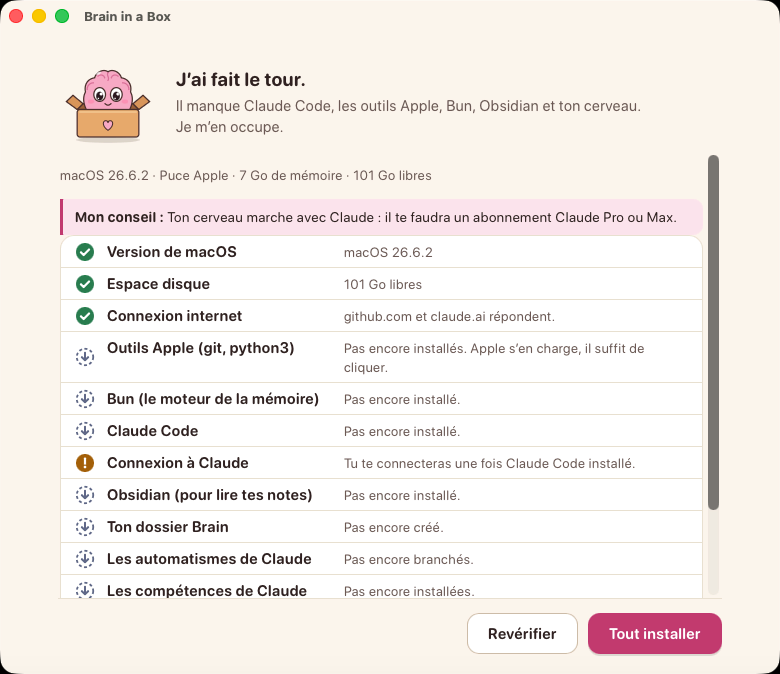
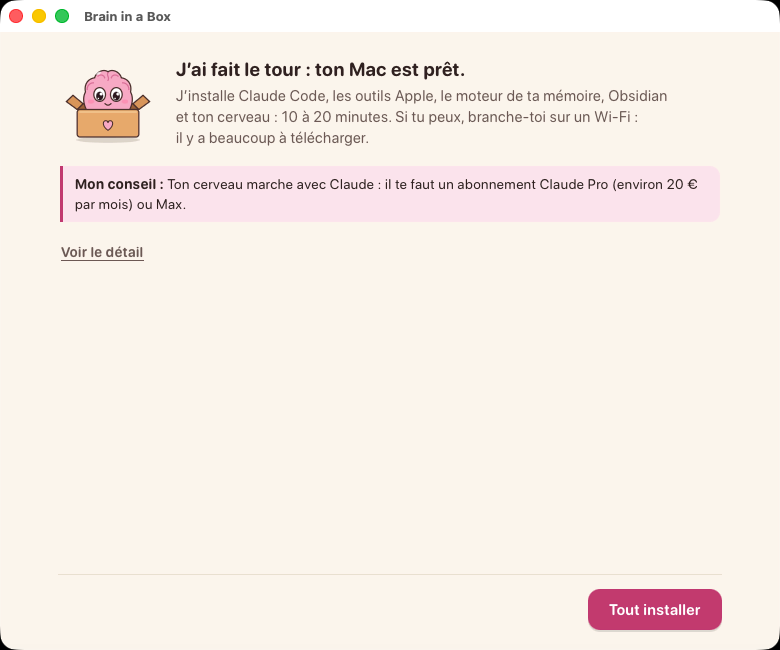
The site's captures from the new screens, as the night films them; the update's path checked on master's preview
- site/img: redone with captures.sh from the windows of a terrain run of master (the published
  preview 138) and, for the end once Claude is connected and SmartScreen naming the site's file,
  from the update's path (app-mise-a-jour): the folded diagnosis, the end « Guide-moi dans un
  logiciel », the installer with Bibo. Their alt says what each one shows (SmartScreen and
  Gatekeeper in English on the VMs), width and height their new size. The guide's two stay (the
  night still pastes its captures), Voyage's too (the path no longer opens it).
- captures.sh names a screen, not its number (the first capture of it): the count before a
  screen changes from night to night. Two more folders, the update's captures (README).
- test_terrain: each site image is its crop, inside the robot's screen, with an alt that says
  what it shows, none left out; the update on master, the newest preview over itself, the
  read-only token taken out of the app's environment.
- macOS's update says what the robot does: it replaces the app in Applications as the Finder's
  « Remplacer » would, it does not drag.

diff --git a/site/index.html b/site/index.html
@@ -348,7 +348,7 @@
             <p>Un message bleu s’affiche (Windows protected your PC). Clique sur <strong>Informations complémentaires</strong> (More info).</p>
           </div>
           <figure class="shot">
-            <a class="zoom" href="img/win-smartscreen-1.webp"><img src="img/win-smartscreen-1.webp" width="532" height="150" loading="lazy" decoding="async" alt="Le message bleu de Windows : Windows a protégé votre ordinateur, avec le lien Informations complémentaires sous le texte."></a>
+            <a class="zoom" href="img/win-smartscreen-1.webp"><img src="img/win-smartscreen-1.webp" width="532" height="150" loading="lazy" decoding="async" alt="Le message bleu de Windows, ici en anglais : Windows protected your PC (Windows a protégé votre ordinateur), avec le lien More info (Informations complémentaires) sous le texte."></a>
             <figcaption>Le haut du message, ici sur un Windows en anglais&nbsp;: «&nbsp;More info&nbsp;».</figcaption>
           </figure>
         </li>
@@ -358,7 +358,7 @@
             <p>Le nom du fichier apparaît, avec «&nbsp;Éditeur inconnu&nbsp;» (Unknown publisher). Clique sur <strong>Exécuter quand même</strong> (Run anyway).</p>
           </div>
           <figure class="shot">
-            <a class="zoom" href="img/win-smartscreen-2.webp"><img class="img-narrow" src="img/win-smartscreen-2.webp" width="532" height="498" loading="lazy" decoding="async" alt="Le même message, avec le nom du fichier Brain in a Box et deux boutons : Exécuter quand même, et Ne pas exécuter."></a>
+            <a class="zoom" href="img/win-smartscreen-2.webp"><img class="img-narrow" src="img/win-smartscreen-2.webp" width="532" height="498" loading="lazy" decoding="async" alt="Le même message après More info : le fichier Brain-in-a-Box_windows-x64-setup.exe, l’éditeur inconnu (Unknown publisher), et deux boutons : Run anyway (Exécuter quand même) et Don’t run (Ne pas exécuter)."></a>
             <figcaption>«&nbsp;Run anyway&nbsp;» sur un Windows en anglais.</figcaption>
           </figure>
         </li>
@@ -370,10 +370,10 @@
           </div>
           <div class="shot-pair">
             <figure class="shot">
-              <a class="zoom" href="img/win-installeur.webp"><img src="img/win-installeur.webp" width="497" height="386" loading="lazy" decoding="async" alt="Premier écran de l'installeur : Bibo s’installe sur ton PC, Clique sur Suivant. Bouton Suivant."></a>
+              <a class="zoom" href="img/win-installeur.webp"><img src="img/win-installeur.webp" width="497" height="386" loading="lazy" decoding="async" alt="Premier écran de l’installeur, avec Bibo dans sa boîte : Bibo s’installe sur ton PC, pour toi seul, en quelques secondes. Clique sur Suivant. Boutons Suivant et Annuler."></a>
             </figure>
             <figure class="shot">
-              <a class="zoom" href="img/win-installeur-fin.webp"><img src="img/win-installeur-fin.webp" width="497" height="386" loading="lazy" decoding="async" alt="Dernier écran : Bibo est installé ! Cases Lancer Bibo maintenant et Mettre l’icône Brain in a Box sur le bureau cochées, bouton Fermer."></a>
+              <a class="zoom" href="img/win-installeur-fin.webp"><img src="img/win-installeur-fin.webp" width="497" height="386" loading="lazy" decoding="async" alt="Dernier écran de l’installeur : Bibo est installé ! Cases Lancer Bibo maintenant et Mettre l’icône « Brain in a Box » sur le bureau cochées, bouton Fermer."></a>
             </figure>
           </div>
         </li>
@@ -400,7 +400,7 @@
             <p>Ouvre le fichier téléchargé (dans Téléchargements). Une fenêtre s’ouvre&nbsp;: glisse <strong>Brain in a Box</strong> sur le dossier <strong>Applications</strong>, en suivant la flèche.</p>
           </div>
           <figure class="shot">
-            <a class="zoom" href="img/mac-dmg.webp"><img class="img-narrow" src="img/mac-dmg.webp" width="660" height="400" loading="lazy" decoding="async" alt="La fenêtre du fichier téléchargé : « Glisse Bibo dans Applications », l’icône Brain in a Box à gauche, une flèche, le dossier Applications à droite."></a>
+            <a class="zoom" href="img/mac-dmg.webp"><img class="img-narrow" src="img/mac-dmg.webp" width="660" height="400" loading="lazy" decoding="async" alt="La fenêtre du fichier téléchargé : « Glisse Bibo dans Applications », l’icône Brain in a Box à gauche, une flèche, le dossier Applications à droite, et dessous « Puis ouvre Brain in a Box depuis le dossier Applications »."></a>
           </figure>
         </li>
         <li>
@@ -409,7 +409,7 @@
             <p>Ouvre Brain in a Box depuis Applications. macOS l’arrête avec un message&nbsp;: Apple n’a pas pu vérifier l’app. Clique sur <strong>Terminé</strong> (Done&nbsp;; <strong>Annuler</strong> sur macOS 13 et 14), surtout pas sur «&nbsp;Placer dans la corbeille&nbsp;» (Move to Trash).</p>
           </div>
           <figure class="shot">
-            <a class="zoom" href="img/mac-bloquee.webp"><img class="img-dialog" src="img/mac-bloquee.webp" width="260" height="284" loading="lazy" decoding="async" alt="Le message de macOS : Apple n'a pas pu vérifier Brain in a Box. Deux boutons : Placer dans la corbeille, et Terminé."></a>
+            <a class="zoom" href="img/mac-bloquee.webp"><img class="img-dialog" src="img/mac-bloquee.webp" width="260" height="284" loading="lazy" decoding="async" alt="Le message de macOS, ici en anglais : « Brain in a Box » Not Opened, Apple n’a pas pu vérifier Brain in a Box. Deux boutons : Move to Trash (Placer dans la corbeille) et Done (Terminé)."></a>
             <figcaption>Ici sur un Mac en anglais&nbsp;: «&nbsp;Done&nbsp;» veut dire «&nbsp;Terminé&nbsp;».</figcaption>
           </figure>
         </li>
@@ -485,7 +485,7 @@
           <p>Bibo annonce le programme&nbsp;: il regarde ce qui manque, installe Claude, te fait connecter ton compte, puis installe le reste. Clique sur <strong>Vérifier mon Mac</strong> (ou «&nbsp;Vérifier mon PC&nbsp;»).</p>
         </div>
         <figure class="shot">
-          <a class="zoom" href="img/bibo-1-bienvenue.webp"><img src="img/bibo-1-bienvenue.webp" width="780" height="674" loading="lazy" decoding="async" alt="L'écran d'accueil : Bibo dit « Salut, moi c'est Bibo ! », trois étapes numérotées, et le bouton Vérifier mon Mac."></a>
+          <a class="zoom" href="img/bibo-1-bienvenue.webp"><img src="img/bibo-1-bienvenue.webp" width="780" height="650" loading="lazy" decoding="async" alt="L’écran d’accueil : Bibo dit « Salut, moi c’est Bibo ! », trois étapes numérotées, le lien Je n’ai pas encore Claude Pro, le numéro de la préversion et le bouton Vérifier mon Mac."></a>
         </figure>
       </li>
       <li>
@@ -503,7 +503,7 @@
           <p>Clique sur <strong>Tout installer</strong>.</p>
         </div>
         <figure class="shot">
-          <a class="zoom" href="img/bibo-2-diagnostic.webp"><img src="img/bibo-2-diagnostic.webp" width="780" height="674" loading="lazy" decoding="async" alt="Le diagnostic : la ligne Mon conseil (ton cerveau marche avec Claude, il te faudra un abonnement Claude Pro ou Max), puis une liste de vérifications (version de macOS, espace disque, internet en vert ; outils Apple, Bun, Claude Code, Obsidian et le dossier Brain à installer) et le bouton Tout installer."></a>
+          <a class="zoom" href="img/bibo-2-diagnostic.webp"><img src="img/bibo-2-diagnostic.webp" width="780" height="650" loading="lazy" decoding="async" alt="Le diagnostic, replié : « J’ai fait le tour : ton Mac est prêt. », ce que Bibo va installer en 10 à 20 minutes, la ligne Mon conseil (un abonnement Claude Pro, environ 20&nbsp;€ par mois, ou Max), le lien Voir le détail et le bouton Tout installer."></a>
         </figure>
       </li>
       <li>
@@ -525,7 +525,7 @@
           <p>Connecté, Claude pourra aider Bibo si une étape coince. Tu peux aussi choisir <strong>Plus tard</strong>.</p>
         </div>
         <figure class="shot">
-          <a class="zoom" href="img/bibo-4-connexion.webp"><img src="img/bibo-4-connexion.webp" width="780" height="674" loading="lazy" decoding="async" alt="Pendant l'installation, Bibo propose de connecter le compte Claude : trois étapes, les boutons Plus tard et Connecter mon compte Claude."></a>
+          <a class="zoom" href="img/bibo-4-connexion.webp"><img src="img/bibo-4-connexion.webp" width="780" height="650" loading="lazy" decoding="async" alt="Pendant l’installation, Bibo propose de connecter ton compte Claude : les étapes encore en attente, trois consignes (ton navigateur s’ouvre sur claude.ai, une fenêtre de commandes s’ouvre aussi, reviens ici), et les boutons Plus tard et Connecter mon compte Claude."></a>
         </figure>
       </li>
       <li>
@@ -540,7 +540,7 @@
           </ul>
         </div>
         <figure class="shot">
-          <a class="zoom" href="img/bibo-6-cerveau.webp"><img src="img/bibo-6-cerveau.webp" width="780" height="580" loading="lazy" decoding="async" alt="L'installation sur Mac : Claude Code, Outils Apple, Bun et Obsidian sont faits, Ton cerveau est en cours, la barre de progression est presque pleine."></a>
+          <a class="zoom" href="img/bibo-6-cerveau.webp"><img src="img/bibo-6-cerveau.webp" width="780" height="650" loading="lazy" decoding="async" alt="L’installation sur Mac : Claude Code, Outils Apple, Bun et Obsidian sont faits, Ton cerveau est en cours. Bibo prévient que macOS peut demander l’accès au dossier Documents, et qu’il faut garder l’ordinateur branché et ouvert."></a>
         </figure>
       </li>
     </ol>
@@ -550,15 +550,15 @@
       <p class="note systems-note">Clique sur une capture pour la voir en grand.</p>
       <div class="systems-grid">
         <figure class="shot">
-          <a class="zoom" href="img/bibo-5-outils-apple.webp"><img src="img/bibo-5-outils-apple.webp" width="780" height="580" loading="lazy" decoding="async" alt="Sur Mac, la fenêtre d'Apple installe les outils de base par-dessus la fenêtre de Bibo, avec une barre de progression."></a>
+          <a class="zoom" href="img/bibo-5-outils-apple.webp"><img src="img/bibo-5-outils-apple.webp" width="780" height="650" loading="lazy" decoding="async" alt="Sur Mac, la fenêtre d’Apple installe les outils de base par-dessus celle de Bibo, avec sa barre de progression ; Bibo dit de cliquer sur Installer, et l’étape Outils Apple est en cours."></a>
           <figcaption><strong>Mac</strong> · 5 étapes&nbsp;: Claude Code, Outils Apple, Bun, Obsidian, Ton cerveau. La fenêtre d’Apple travaille quelques minutes.</figcaption>
         </figure>
         <figure class="shot">
-          <a class="zoom" href="img/bibo-windows.webp"><img src="img/bibo-windows.webp" width="780" height="400" loading="lazy" decoding="async" alt="Sur Windows, deux étapes : Claude Code est fait, Ton cerveau est en cours."></a>
+          <a class="zoom" href="img/bibo-windows.webp"><img src="img/bibo-windows.webp" width="780" height="430" loading="lazy" decoding="async" alt="Sur Windows, deux étapes : Claude Code est fait, Ton cerveau est en cours. Bibo prévient que Windows peut demander une autorisation pour installer Git ou Python, et qu’il faut garder l’ordinateur branché."></a>
           <figcaption><strong>Windows</strong> · 2 étapes&nbsp;: Claude Code, puis Ton cerveau, qui amène Python, Git, Bun et Obsidian.</figcaption>
         </figure>
         <figure class="shot">
-          <a class="zoom" href="img/bibo-linux.webp"><img src="img/bibo-linux.webp" width="780" height="580" loading="lazy" decoding="async" alt="Sur Linux, cinq étapes : Outils de base, Claude Code et Bun sont faits, Obsidian est en cours ; Bibo prévient que l'ordinateur va demander le mot de passe."></a>
+          <a class="zoom" href="img/bibo-linux.webp"><img src="img/bibo-linux.webp" width="780" height="620" loading="lazy" decoding="async" alt="Sur Linux, cinq étapes : Outils de base, Claude Code et Bun sont faits, Obsidian est en cours ; Bibo prévient que l’ordinateur va demander le mot de passe."></a>
           <figcaption><strong>Linux</strong> · Outils de base (s’il en manque), Claude Code, Bun, Obsidian, Ton cerveau.</figcaption>
         </figure>
       </div>
@@ -572,7 +572,7 @@
           <p>Si ton compte n’est pas encore connecté, Bibo te le redemande à la fin. Même chose&nbsp;: une fenêtre s’ouvre, tu te connectes dans ton navigateur, et Bibo voit tout seul quand c’est bon.</p>
         </div>
         <figure class="shot">
-          <a class="zoom" href="img/bibo-7-compte.webp"><img src="img/bibo-7-compte.webp" width="780" height="674" loading="lazy" decoding="async" alt="L'écran Dernière étape : ton compte Claude, avec trois étapes et les boutons Plus tard et Connecter mon compte Claude."></a>
+          <a class="zoom" href="img/bibo-7-compte.webp"><img src="img/bibo-7-compte.webp" width="780" height="650" loading="lazy" decoding="async" alt="L’écran Dernière étape : ton compte Claude, trois consignes (ton navigateur, la fenêtre de commandes, revenir ici) et les boutons Plus tard et Connecter mon compte Claude."></a>
         </figure>
       </li>
       <li>
@@ -583,7 +583,7 @@
           <p><a href="#guide">Le guide</a> · <a href="#apres">Et après&nbsp;?</a></p>
         </div>
         <figure class="shot">
-          <a class="zoom" href="img/bibo-8-pret.webp"><img src="img/bibo-8-pret.webp" width="780" height="674" loading="lazy" decoding="async" alt="L'écran final : Bibo content dit « Ton second cerveau est prêt ! », avec les boutons Activer la recherche par le sens, Importer ma mémoire, Essayer le guide, Ouvrir mon cerveau dans Obsidian et Personnaliser mon cerveau (15 min)."></a>
+          <a class="zoom" href="img/bibo-8-pret.webp"><img src="img/bibo-8-pret.webp" width="780" height="650" loading="lazy" decoding="async" alt="L’écran final, Claude connecté : Bibo content dit « Ton second cerveau est prêt ! », les liens Importer ma mémoire, Voir mes notes et Recherche par le sens, et deux boutons : Présente-toi à Claude (15 min) et, en rose, Guide-moi dans un logiciel."></a>
         </figure>
       </li>
       <li>
@@ -594,7 +594,7 @@
           <p><a href="#memoire">Les deux façons, pas à pas</a></p>
         </div>
         <figure class="shot">
-          <a class="zoom" href="img/bibo-9-memoire.webp"><img src="img/bibo-9-memoire.webp" width="780" height="674" loading="lazy" decoding="async" alt="L'écran D'où vient ta mémoire ? : deux façons, ton fichier d'export (.zip) ou un copier-coller (2 min), l'aide Comment obtenir mon export ?, ce qui part et où, et les boutons Retour, Je copie-colle une réponse et Choisir mon fichier d'export."></a>
+          <a class="zoom" href="img/bibo-9-memoire.webp"><img src="img/bibo-9-memoire.webp" width="780" height="650" loading="lazy" decoding="async" alt="L’écran D’où vient ta mémoire ? : deux façons, un copier-coller (2 min) ou ton fichier d’export (.zip), l’aide Comment obtenir mon export ?, ce qui part et où, et les boutons Retour, Choisir mon fichier d’export et Je copie-colle (2 min)."></a>
         </figure>
       </li>
     </ol>

diff --git a/engine/tests/test_terrain.py b/engine/tests/test_terrain.py
@@ -1266,9 +1266,9 @@ class MiseAJour(unittest.TestCase):
         f.write_bytes(b"old")
         return f
 
-    def run_it(self):
+    def run_it(self, source="build"):
         opts = types.SimpleNamespace(home=self.home, json=str(Path(self.tmp) / "r.json"), parcours="app-mise-a-jour", vm=True,
-                                     source="build", fichier=str(self.new), captures=str(self.shots), delai_min=0)
+                                     source=source, fichier=str(self.new), captures=str(self.shots), delai_min=0)
         versions = iter(self.versions)
         with mock.patch.dict(os.environ, {"GH_TOKEN": "ghs_x"}), mock.patch.object(terrain, "version_d_avant", self.avant), \
                 mock.patch.object(terrain, "version_installee", lambda pilote: next(versions)):
@@ -1281,8 +1281,8 @@ class MiseAJour(unittest.TestCase):
         row, left = self.run_it()
         self.assertEqual(row["statut"], "ok", row["raison"])
         self.assertIsNone(left, "the read-only token never reaches the app")
-        self.assertTrue(row["raison"].startswith("app 0.1.138, son cerveau installé, puis la version construite par-dessus (le Finder "
-                                                 "remplace l'app, macOS la bloque de nouveau) : version 0.1.139"), row["raison"])
+        self.assertTrue(row["raison"].startswith("app 0.1.138, son cerveau installé, puis la version construite par-dessus (l'app "
+                                                 "remplacée dans Applications, macOS la bloque de nouveau) : version 0.1.139"), row["raison"])
         d = row["details"]
         self.assertEqual(self.p.installes[0][0], "Brain-in-a-Box_macos-universal.dmg")
         self.assertEqual(self.p.installes[1][0], self.new.name)
@@ -1300,6 +1300,27 @@ class MiseAJour(unittest.TestCase):
         self.assertTrue(any("-avant-" in c for c in d["captures"]))
         self.assertEqual(d["ajouts_au_coffre"], [])
         self.assertTrue((self.home / "Documents" / "Brain" / terrain.NOTE_UTILISATEUR).is_file())
+
+    def test_on_master_the_newest_preview_over_itself(self):
+        # The night on master: the tested version is the newest preview, fetched as the path app fetches it, with
+        # the read-only token taken out of the environment (never the app's); the same version, over itself.
+        got = []
+
+        def depuis_release(t, pilote, dossier, token, details, sha=None):
+            got.append((token, sha))
+            details["release"] = "app-v0.1.138-preview.138"
+            f = Path(dossier) / "Brain-in-a-Box_0.1.138-preview.138_macos-universal.dmg"
+            f.write_bytes(b"dmg")
+            return f
+        self.versions = ["0.1.138", "0.1.138"]
+        with mock.patch.object(terrain.terrain_app, "depuis_release", depuis_release), \
+                mock.patch.object(terrain, "tested_ref", lambda: "f" * 40):
+            row, left = self.run_it(source="release")
+        self.assertEqual(row["statut"], "ok", row["raison"])
+        self.assertEqual(got, [("ghs_x", "f" * 40)])
+        self.assertIsNone(left, "the read-only token never reaches the app")
+        self.assertIn("puis app-v0.1.138-preview.138 par-dessus", row["raison"])
+        self.assertEqual(self.p.installes[1][0], "Brain-in-a-Box_0.1.138-preview.138_macos-universal.dmg")
 
     def test_a_brain_the_update_touched_fails(self):
         for what, why in (("Documents/Brain/" + terrain.NOTE_UTILISATEUR, "1 fichier(s) du coffre perdu(s) ou changé(s) par la mise à jour : "
@@ -1379,6 +1400,41 @@ class MiseAJour(unittest.TestCase):
             check("autre.exe")
         self.assertIn("Brain-in-a-Box_windows-x64-setup.exe ne correspond pas au SHA256SUMS d'app-latest", str(cm.exception))
 
+
+SITE = Path(HERE).parent.parent / "site"
+# The robot's screens: 1024x768 on macOS and Windows, 1280x900 on Linux.
+ECRANS = {"macos": (1024, 768), "macos-mise-a-jour": (1024, 768), "windows": (1024, 768), "windows-mise-a-jour": (1024, 768),
+          "linux": (1280, 900)}
+# The site's images captures.sh does not make: the guide's (until the night films its automatic capture),
+# Voyage's screen (the robot no longer opens it), the icon and the shared link's picture.
+SITE_GARDEES = {"guide-objectif.webp", "guide-etape.webp", "bibo-3-voyage.webp", "bibo.svg", "og.jpg"}
+
+
+class SiteCaptures(unittest.TestCase):
+    """site/captures.sh crops the night's captures into site/img: each crop inside the robot's screen, each image
+    the size of its crop (the page says that size: test_release_workflow), an alt that says what it shows, and no
+    image of the site left out by mistake."""
+
+    def test_each_image_is_its_crop(self):
+        from test_release_workflow import webp_size
+        table = (SITE / "captures.sh").read_text(encoding="utf-8").split("<<'EOF'\n", 1)[1].split("\nEOF", 1)[0]
+        page = (SITE / "index.html").read_text(encoding="utf-8")
+        faites = set()
+        for line in table.splitlines():
+            if not line.strip() or line.startswith("#"):
+                continue
+            source, x, y, w, h, name = line.split()
+            x, y, w, h = int(x), int(y), int(w), int(h)
+            with self.subTest(name=name):
+                largeur, hauteur = ECRANS.get(source.split("/", 1)[0], (0, 0))
+                self.assertTrue(x >= 0 and y >= 0 and x + w <= largeur and y + h <= hauteur, "%s: crop outside the screen" % line)
+                self.assertEqual(webp_size(SITE / "img" / (name + ".webp")), (w, h))
+                for tag in re.findall(r'<a class="zoom" href="img/%s\.webp"><img [^>]*>' % re.escape(name), page):
+                    self.assertRegex(tag, r'alt="[^"]{40,}"', "a capture shown big says what it shows")
+                faites.add(name + ".webp")
+        site = {f.name for f in (SITE / "img").iterdir()}
+        self.assertEqual(sorted(site - faites - SITE_GARDEES), [], "an image of the site captures.sh neither makes nor keeps")
+        self.assertEqual(SITE_GARDEES - site, set())
 
 
 @unittest.skipIf(sys.platform == "win32", "the Unix form of Codex's hooks; Windows' runs on its VM (app-windows, app-codex)")

diff --git a/engine/tests/terrain.py b/engine/tests/terrain.py
@@ -1953,8 +1953,8 @@ def version_installee(pilote):
 
 def par_dessus(pilote, fichier, details, capturer):
     """The tested version installed over the one there, as a user does: on Windows its setup.exe opened and
-    clicked through (SmartScreen, then its pages); on macOS the app in Applications replaced by the DMG's (the
-    Finder's « Remplacer »), then Gatekeeper again."""
+    clicked through (SmartScreen, then its pages); on macOS the app in Applications replaced by the DMG's (what
+    the Finder's « Remplacer » does, done by the robot: it copies, it does not drag), then Gatekeeper again."""
     if isinstance(pilote, terrain_app.PiloteWindows):
         details["bureau_range"] = pilote._outil(["ranger"]).get("fenetres")
         lance, notes = pilote.lancer_setup(fichier, details, capturer)
@@ -2136,7 +2136,7 @@ def mise_a_jour(t, opts, pilote=None, horloge=time.monotonic, dormir=time.sleep)
                    "propose le guide, coffre, kit, réglages et tâches intacts" % (
                        avant.get("version") or avant.get("release"), nouveau.get("release") or "la version construite",
                        " (l'installeur dit « %s », sans question)" % MAJ_TITRE if isinstance(pilote, terrain_app.PiloteWindows)
-                       else " (le Finder remplace l'app, macOS la bloque de nouveau)", nouveau["version"])
+                       else " (l'app remplacée dans Applications, macOS la bloque de nouveau)", nouveau["version"])
     except terrain_app.ErreurPilote as e:
         if parcours:
             parcours.sur_echec()

diff --git a/site/README.md b/site/README.md
@@ -34,12 +34,14 @@ done   # HTTP/2 302, four times
 
 ## Update the captures
 
-They come from the nightly field test (`.github/workflows/terrain.yml`), artifacts `captures-macos-app`, `captures-windows-app` and `captures-linux-app`:
+They come from the nightly field test (`.github/workflows/terrain.yml`), artifacts `captures-macos-app`, `captures-windows-app` and `captures-linux-app`, and the update's `captures-macos-app-mise-a-jour` and `captures-windows-app-mise-a-jour` (the end once Claude is connected, SmartScreen naming the site's file):
 
 ```bash
 run=$(gh run list -w terrain.yml -s completed -L 1 --json databaseId -q '.[0].databaseId')
-for os in macos windows linux; do gh run download "$run" -n "captures-$os-app" -D "/tmp/captures/$os"; done
+for a in macos-app windows-app linux-app macos-app-mise-a-jour windows-app-mise-a-jour; do
+  gh run download "$run" -n "captures-$a" -D "/tmp/captures/${a/-app/}"
+done
 site/captures.sh /tmp/captures      # needs cwebp (brew install webp)
 ```
 
-`captures.sh` crops each capture to the window that matters and writes `img/*.webp` (lossless-like, about 300 KB for all). Its table names the source capture, the crop and the output: when a screen of the app changes place, or a capture is renumbered, fix its line. Then check the page, and the texts and `alt` that describe the screens.
+`captures.sh` crops each capture to the window that matters and writes `img/*.webp` (lossless-like, about 300 KB for all). Its table names the source capture (by its screen: the first capture of it), the crop and the output: when a screen of the app changes place, fix its line. Then check the page, and the texts and `alt` that describe the screens.
